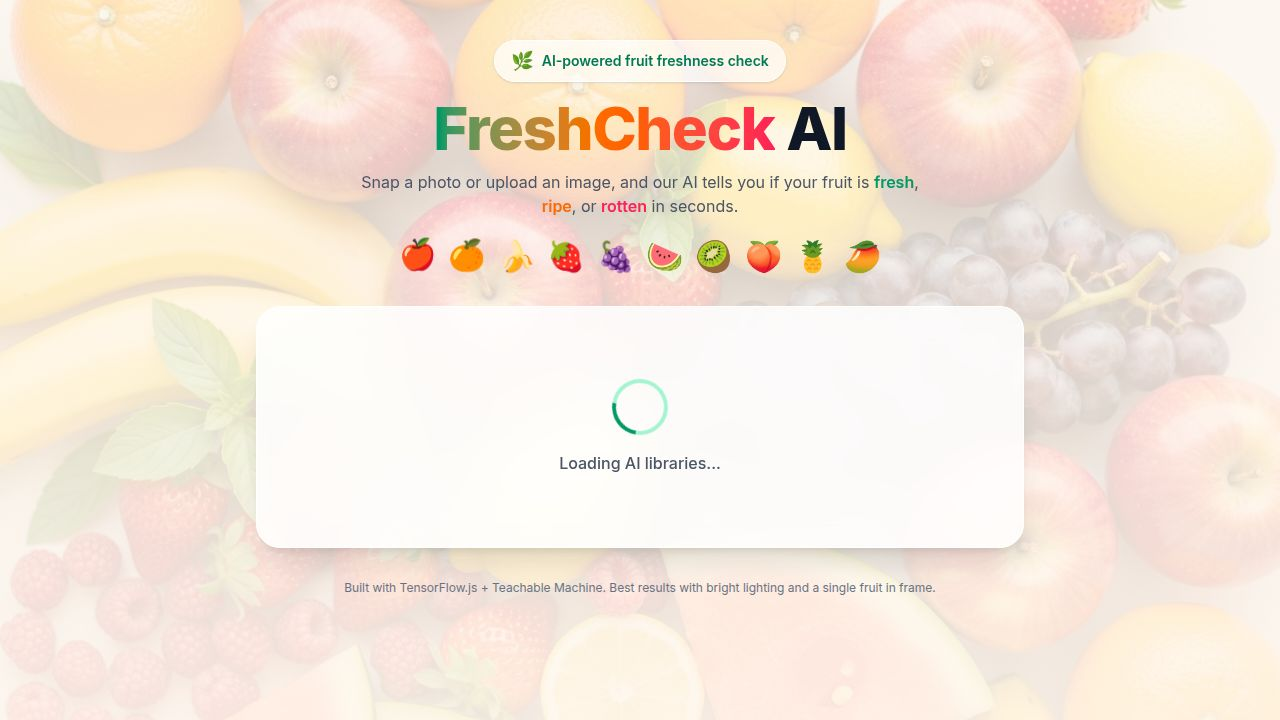
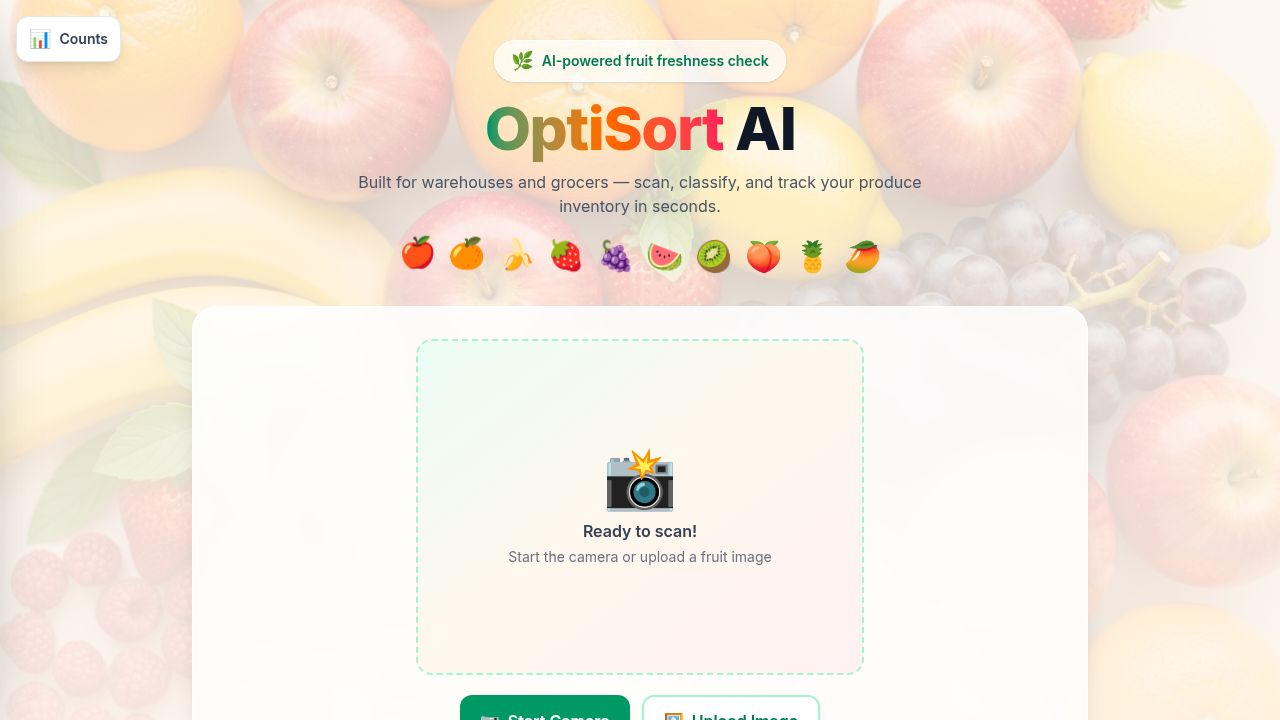
Add produce identification to improve scan categorization
Integrate MobileNet model to classify produce type, storing it in the `produceType` field of `ScanRecord`. This change updates `index.html` to load the MobileNet script and modifies `App.tsx` to load and utilize the model for classification, improving sidebar categorization and storing the identified produce type.

Replit-Commit-Author: Agent
Replit-Commit-Session-Id: 62de4210-1036-44b6-97a9-0eb043c72360
Replit-Commit-Checkpoint-Type: full_checkpoint
Replit-Commit-Event-Id: 74b80ecb-0eda-44fd-be7d-43cdd571817f
Replit-Commit-Screenshot-Url: https://storage.googleapis.com/screenshot-production-us-central1/ae6cf45f-330d-401b-997f-26260e54f874/62de4210-1036-44b6-97a9-0eb043c72360/Jp911uB
Replit-Helium-Checkpoint-Created: true

diff --git a/artifacts/freshcheck-ai/src/App.tsx b/artifacts/freshcheck-ai/src/App.tsx
@@ -3,6 +3,94 @@ import { useEffect, useMemo, useRef, useState } from "react";
 declare global {
   interface Window {
     tmImage: any;
+    mobilenet: any;
+  }
+}
+
+// Maps MobileNet (ImageNet) class names to friendly produce names.
+// Longer keys are checked first so multi-word matches win.
+const PRODUCE_KEYWORDS: Record<string, string> = {
+  "granny smith": "apple",
+  "custard apple": "custard apple",
+  "head cabbage": "cabbage",
+  "globe artichoke": "artichoke",
+  "spaghetti squash": "squash",
+  "acorn squash": "squash",
+  "butternut squash": "squash",
+  "bell pepper": "bell pepper",
+  apple: "apple",
+  banana: "banana",
+  orange: "orange",
+  lemon: "lemon",
+  lime: "lime",
+  strawberry: "strawberry",
+  pineapple: "pineapple",
+  ananas: "pineapple",
+  fig: "fig",
+  jackfruit: "jackfruit",
+  pomegranate: "pomegranate",
+  mango: "mango",
+  papaya: "papaya",
+  watermelon: "watermelon",
+  cantaloupe: "cantaloupe",
+  grape: "grape",
+  cherry: "cherry",
+  peach: "peach",
+  pear: "pear",
+  kiwi: "kiwi",
+  blueberry: "blueberry",
+  raspberry: "raspberry",
+  avocado: "avocado",
+  coconut: "coconut",
+  tomato: "tomato",
+  carrot: "carrot",
+  eggplant: "eggplant",
+  broccoli: "broccoli",
+  cauliflower: "cauliflower",
+  cabbage: "cabbage",
+  potato: "potato",
+  corn: "corn",
+  cucumber: "cucumber",
+  cuke: "cucumber",
+  onion: "onion",
+  garlic: "garlic",
+  lettuce: "lettuce",
+  mushroom: "mushroom",
+  zucchini: "zucchini",
+  courgette: "zucchini",
+  squash: "squash",
+  artichoke: "artichoke",
+  asparagus: "asparagus",
+};
+
+const PRODUCE_KEYS_SORTED = Object.keys(PRODUCE_KEYWORDS).sort(
+  (a, b) => b.length - a.length,
+);
+
+function matchProduceKeyword(className: string): string | null {
+  const cls = className.toLowerCase();
+  for (const k of PRODUCE_KEYS_SORTED) {
+    if (cls.includes(k)) return PRODUCE_KEYWORDS[k];
+  }
+  return null;
+}
+
+async function detectProduceType(
+  source: HTMLCanvasElement | HTMLImageElement,
+  mn: any,
+): Promise<string | null> {
+  if (!mn) return null;
+  try {
+    const preds: Array<{ className: string; probability: number }> =
+      await mn.classify(source, 5);
+    for (const p of preds) {
+      const m = matchProduceKeyword(p.className);
+      if (m) return m;
+    }
+    return null;
+  } catch (e) {
+    console.error("MobileNet classify failed", e);
+    return null;
   }
 }
 
@@ -31,6 +119,8 @@ type ScanRecord = {
   label: string;
   confidence: number;
   category: ScanCategory;
+  /** MobileNet-detected fruit/vegetable name (e.g. "apple"). Optional for backward compat. */
+  produceType?: string;
   thumbnail: string;
   source: "camera" | "upload";
   timestamp: number;
@@ -304,6 +394,7 @@ export default function App() {
   }, [sidebarOpen]);
 
   const modelRef = useRef<any>(null);
+  const mobilenetRef = useRef<any>(null);
   const webcamRef = useRef<any>(null);
   const webcamContainerRef = useRef<HTMLDivElement>(null);
   const uploadImgRef = useRef<HTMLImageElement>(null);
@@ -337,6 +428,19 @@ export default function App() {
         if (cancelled) return;
         modelRef.current = model;
         setStatus("ready");
+        // Load MobileNet in background so we can identify what fruit/veg is in frame.
+        // The freshness model only knows fresh/rotten, so we use MobileNet
+        // (an ImageNet classifier) for the produce *type*.
+        if (window.mobilenet) {
+          window.mobilenet
+            .load()
+            .then((mn: any) => {
+              if (!cancelled) mobilenetRef.current = mn;
+            })
+            .catch((err: any) => {
+              console.error("MobileNet failed to load — produce names will be unknown.", err);
+            });
+        }
       } catch (e: any) {
         if (cancelled) return;
         console.error(e);
@@ -451,7 +555,11 @@ export default function App() {
             if (!empty && top && lastUploadAutoSaved.current !== dataUrl) {
               lastUploadAutoSaved.current = dataUrl;
               const thumb = makeThumbnail(uploadImgRef.current);
-              saveScan(top, thumb, "upload");
+              const produceType = await detectProduceType(
+                uploadImgRef.current,
+                mobilenetRef.current,
+              );
+              saveScan(top, thumb, "upload", produceType);
             }
           } catch (e: any) {
             console.error(e);
@@ -473,12 +581,14 @@ export default function App() {
     top: Prediction,
     thumbnail: string,
     source: "camera" | "upload",
+    produceType: string | null,
   ) => {
     const record: ScanRecord = {
       id: `${Date.now()}-${Math.random().toString(36).slice(2, 8)}`,
       label: top.className,
       confidence: top.probability,
       category: categorize(top.className),
+      produceType: produceType || undefined,
       thumbnail,
       source,
       timestamp: Date.now(),
@@ -492,13 +602,17 @@ export default function App() {
     setTimeout(() => setSavedFlash(false), 1500);
   };
 
-  const captureFromCamera = () => {
+  const captureFromCamera = async () => {
     if (!webcamRef.current || nothingToScan) return;
     const sorted = [...predictions].sort((a, b) => b.probability - a.probability);
     const top = sorted[0];
     if (!top) return;
     const thumb = makeThumbnail(webcamRef.current.canvas);
-    saveScan(top, thumb, "camera");
+    const produceType = await detectProduceType(
+      webcamRef.current.canvas,
+      mobilenetRef.current,
+    );
+    saveScan(top, thumb, "camera", produceType);
   };
 
   const removeRecord = (id: string) => {
@@ -574,7 +688,14 @@ export default function App() {
   const produceBreakdown = useMemo<ProduceEntry[]>(() => {
     const map: Record<string, ProduceEntry> = {};
     for (const r of history) {
-      const name = extractProduceName(r.label) || "unknown";
+      // Prefer the MobileNet-detected produce type; fall back to extracting
+      // from the freshness label for older records, or "unknown" if neither.
+      const fallback = extractProduceName(r.label);
+      const isFreshnessOnly = /^(fresh|rotten|ripe|overripe|nothing|spoiled|good|bad)$/i.test(
+        fallback,
+      );
+      const name =
+        r.produceType || (isFreshnessOnly ? "unknown" : fallback) || "unknown";
       if (!map[name]) {
         map[name] = {
           name,

diff --git a/artifacts/freshcheck-ai/index.html b/artifacts/freshcheck-ai/index.html
@@ -11,6 +11,7 @@
     <link href="https://fonts.googleapis.com/css2?family=Inter:wght@400;500;600;700;800&display=swap" rel="stylesheet">
     <script src="https://cdn.jsdelivr.net/npm/@tensorflow/tfjs@1.3.1/dist/tf.min.js"></script>
     <script src="https://cdn.jsdelivr.net/npm/@teachablemachine/image@0.8/dist/teachablemachine-image.min.js"></script>
+    <script src="https://cdn.jsdelivr.net/npm/@tensorflow-models/mobilenet@1.0.1/dist/mobilenet.min.js"></script>
   </head>
   <body>
     <div id="root"></div>
